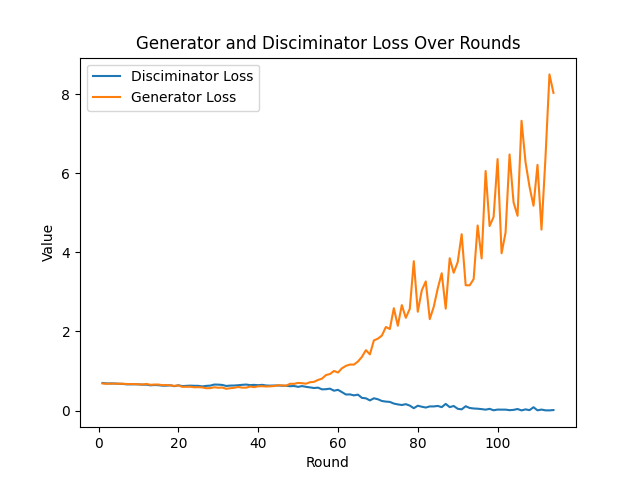
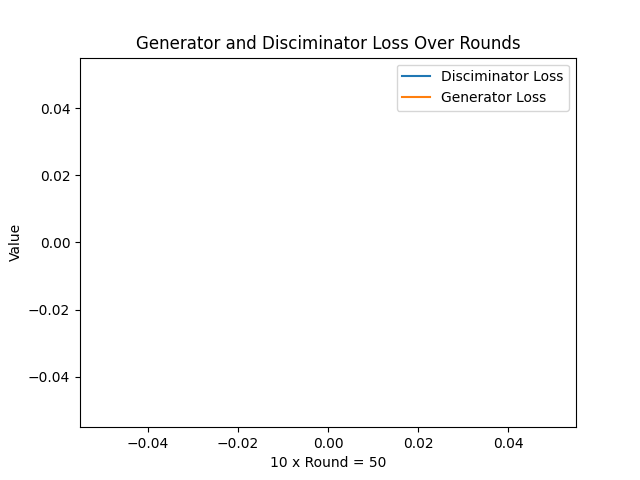
fix the graph loss

diff --git a/gan-mnist/gan_mnist/task.py b/gan-mnist/gan_mnist/task.py
@@ -244,11 +244,13 @@
 #         optimizer_G.step()      
 #         return loss_D.item(), loss_G.item()  
 
-
+import torch
+print("CUDA Available:", torch.cuda.is_available())  
+print("Number of GPUs:", torch.cuda.device_count())  
+print("GPU Name:", torch.cuda.get_device_name(0) if torch.cuda.is_available() else "No GPU")  
+print("CUDA Version:", torch.version.cuda)  
 
 from collections import OrderedDict
-
-import torch
 import torch.nn as nn
 import torch.nn.functional as F
 from torch.utils.data import DataLoader, Subset
@@ -259,12 +261,14 @@ from flwr_datasets.partitioner import IidPartitioner
 import matplotlib.pyplot as plt
 import os
 
+
+
 class Generator(nn.Module):
     def __init__(self):
         super().__init__()
         self.fc = nn.Linear(100, 256*7*7)
         self.trans_conv1 = nn.ConvTranspose2d(256, 128, kernel_size=3, stride=2, padding=1, output_padding=1)
-        self.trans_conv2 = nn.ConvTranspose2d(128, 64, kernel_size=3, stride=1, padding=1)
+        self.trans_conv2 = nn.ConvTranspose2d(128,  64, kernel_size=3, stride=1, padding=1)
         self.trans_conv3 = nn.ConvTranspose2d(64, 32, kernel_size=3, stride=1, padding=1)
         self.trans_conv4 = nn.ConvTranspose2d(32, 1, kernel_size=3, stride=2, padding=1, output_padding=1)
 
@@ -321,6 +325,8 @@ class GlobalModel(nn.Module):
         x = self.fc2(x)
         return x
 
+
+
 fds = None
 
 def load_data(partition_id: int, num_partitions: int, num_samples: int = 2300):
@@ -347,8 +353,10 @@ def load_data(partition_id: int, num_partitions: int, num_samples: int = 2300):
     return trainloader, testloader
 
 def test(G, D, testloader, device, latent_size=100):
+    device = torch.device("cuda" if torch.cuda.is_available() else "cpu")
     G.to(device)
     D.to(device)
+
     G.eval()
     D.eval()
     with torch.no_grad():
@@ -382,7 +390,7 @@ def save_plots(D_loss, G_loss, output_dir="output", filename="training_Loss_grap
     plt.figure()
     plt.plot(range(1, len(D_loss) + 1), D_loss, linestyle='-', label='Disciminator Loss')
     plt.plot(range(1, len(G_loss) + 1), G_loss, linestyle='-', label='Generator Loss')
-    plt.xlabel("Round")
+    plt.xlabel("10 x Round = 50")
     plt.ylabel("Value")
     plt.title("Generator and Disciminator Loss Over Rounds")
     plt.legend()
@@ -390,11 +398,12 @@ def save_plots(D_loss, G_loss, output_dir="output", filename="training_Loss_grap
     plt.close()
     
 def train(G, D, trainloader, epochs, device, latent_size=100):
+    device = torch.device("cuda" if torch.cuda.is_available() else "cpu")
     G.to(device)
     D.to(device)
     
-    optimizer_G = torch.optim.Adam(G.parameters(), lr=0.0004, betas=(0.5, 0.999)) # Tăng lr
-    optimizer_D = torch.optim.Adam(D.parameters(), lr=0.00005, betas=(0.5, 0.999)) # Giảm lr
+    optimizer_G = torch.optim.Adam(G.parameters(), lr=0.0001, betas=(0.5, 0.999)) # Tăng lr
+    optimizer_D = torch.optim.Adam(D.parameters(), lr=0.0001, betas=(0.5, 0.999)) # Giảm lr
     
     adversarial_loss = torch.nn.BCEWithLogitsLoss().to(device)
     
@@ -440,7 +449,6 @@ def train(G, D, trainloader, epochs, device, latent_size=100):
         print(f"Epoch [{epoch}/{epochs}] Loss D: {loss_D.item():.4f}, Loss G: {loss_G.item():.4f}")
         
         # Lưu ảnh sinh ra sau mỗi epoch
-        if epoch % 10 == 0:
-            save_generated_images(generated_images, output_dir="output", filename=f"generated_images_epoch_{epoch}.png")
-
+        if epoch % 9 == 0:
+            save_generated_images(generated_images, output_dir="output", filename=f"generated_images_round_{epoch}.png")  
     return D_losses, G_losses        

diff --git a/gan-mnist/gan_mnist/client_app.py b/gan-mnist/gan_mnist/client_app.py
@@ -156,12 +156,15 @@ from gan_mnist.task import (
     train,
     test,
     save_plots,
+    
     save_generated_images
 )
 
 def print_weights(weights, name):
     """In ra một phần nhỏ của trọng số để kiểm tra."""
     print(f"{name} weights sample: {weights[0].flatten()[:5]}")
+D_losses = []
+G_losses = []
 
 # Define Flower Client and client_fn
 class FlowerClient(NumPyClient):
@@ -171,24 +174,26 @@ class FlowerClient(NumPyClient):
         self.trainloader = trainloader
         self.valloader = valloader
         self.local_epochs = local_epochs
-        self.device = torch.device("cuda:0" if torch.cuda.is_available() else "cpu")
+        self.device = torch.device("cuda" if torch.cuda.is_available() else "cpu")
+        print(f"Using device: {self.device}")
         self.G.to(self.device)
         self.D.to(self.device)
         self.latent_size = latent_size
         self.partition_id = partition_id
         self.total_rounds = total_rounds
-        self.D_losses = []
-        self.G_losses = []
+
 
     def get_parameters(self, config):
-        return get_weights(self.G) + get_weights(self.D)
+        return get_weights(self.D) 
+    # + get_weights(self.G)
 
     def set_parameters(self, parameters):
-        G_params_len = len(list(self.G.state_dict().keys()))
-        G_params = parameters[:G_params_len]
-        D_params = parameters[G_params_len:]
-        set_weights(self.G, G_params)
-        set_weights(self.D, D_params)
+        # G_params_len = len(list(self.G.state_dict().keys()))
+        # G_params = parameters[:G_params_len]
+        # D_params = parameters[G_params_len:]
+        # set_weights(self.G, G_params)
+        # set_weights(self.D, D_params)
+        set_weights(self.D, parameters)
 
     def fit(self, parameters, config):
         self.set_parameters(parameters=parameters)
@@ -200,20 +205,19 @@ class FlowerClient(NumPyClient):
             self.device,
             self.latent_size,
         )
-        self.D_losses.append(train_loss_D)
-        self.G_losses.append(train_loss_G)
-        return self.get_parameters(config), len(self.trainloader.dataset), {"train_loss_D": train_loss_D, "train_loss_G": train_loss_G}
+        D_losses.extend(train_loss_D)
+        G_losses.extend(train_loss_G)
+        return self.get_parameters(config), len(self.trainloader.dataset), {
+        "train_loss_D": train_loss_D,
+        "train_loss_G": train_loss_G,
+        }
 
     def evaluate(self, parameters, config):
         self.set_parameters(parameters)
-        current_round = config.get("current_round", -1)
         validity, generated_img = test(self.G, self.D, self.valloader, self.device, self.latent_size)
-        if current_round == self.total_rounds and self.partition_id == 0:
-            save_generated_images(generated_img)
-            save_plots(self.D_losses, self.G_losses) #Sửa lại ở đây
+        save_plots(D_loss=D_losses, G_loss=G_losses)
         print(f"Validation Validity: {validity}")
         return validity, len(self.valloader.dataset), {}
-
 
 def client_fn(context: Context):
     G = Generator()

diff --git a/gan-mnist/gan_mnist/server_app.py b/gan-mnist/gan_mnist/server_app.py
@@ -45,7 +45,7 @@
 from flwr.common import Context, ndarrays_to_parameters
 from flwr.server import ServerApp, ServerAppComponents, ServerConfig
 from flwr.server.strategy import FedAvg
-
+from typing import Dict, List, Tuple
 from gan_mnist.task import Generator, Discriminator, GlobalModel, get_weights
 
 def fit_round(server_round: int):
@@ -57,16 +57,17 @@ def server_fn(context: Context):
     fraction_fit = context.run_config["fraction-fit"]
 
     D = Discriminator()
-    G = Generator()
+    # G = Generator()
 
-    ndarrays = get_weights(G) + get_weights(D)
+    ndarrays = get_weights(D) 
+    # + get_weights(G)
     parameters = ndarrays_to_parameters(ndarrays)
-
     strategy = FedAvg(
         fraction_fit=fraction_fit,
-        fraction_evaluate=0.5,
+        fraction_evaluate=0.8, #evaluate all clients
         initial_parameters=parameters,
         on_fit_config_fn=fit_round,
+
     )
     config = ServerConfig(num_rounds=num_rounds)
 
